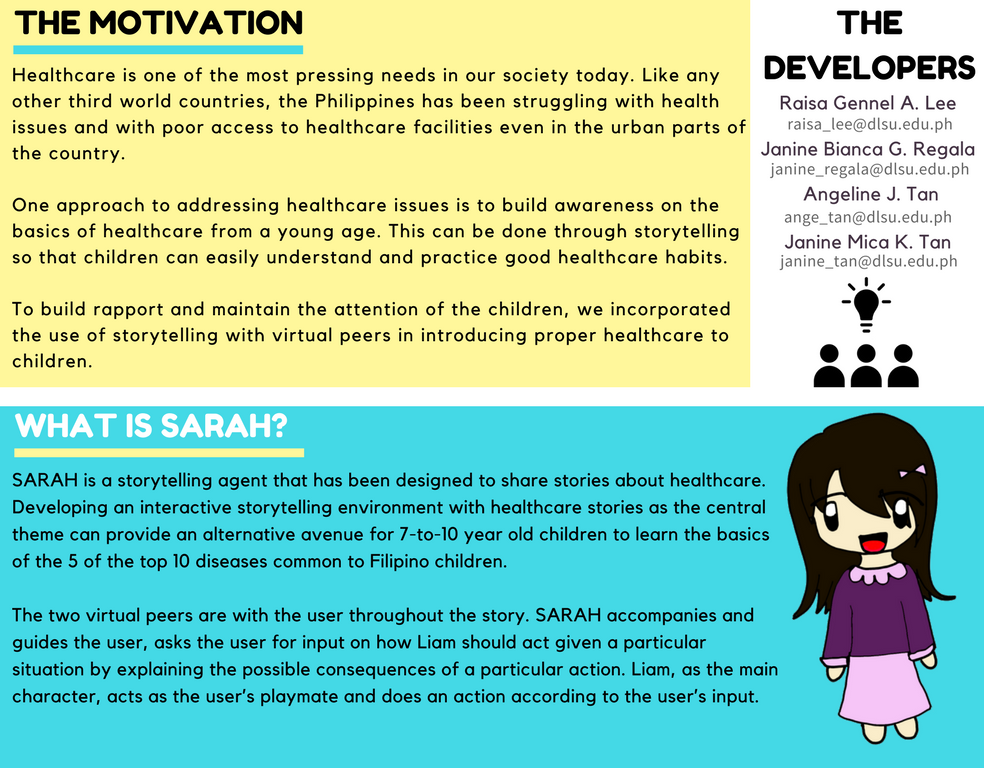
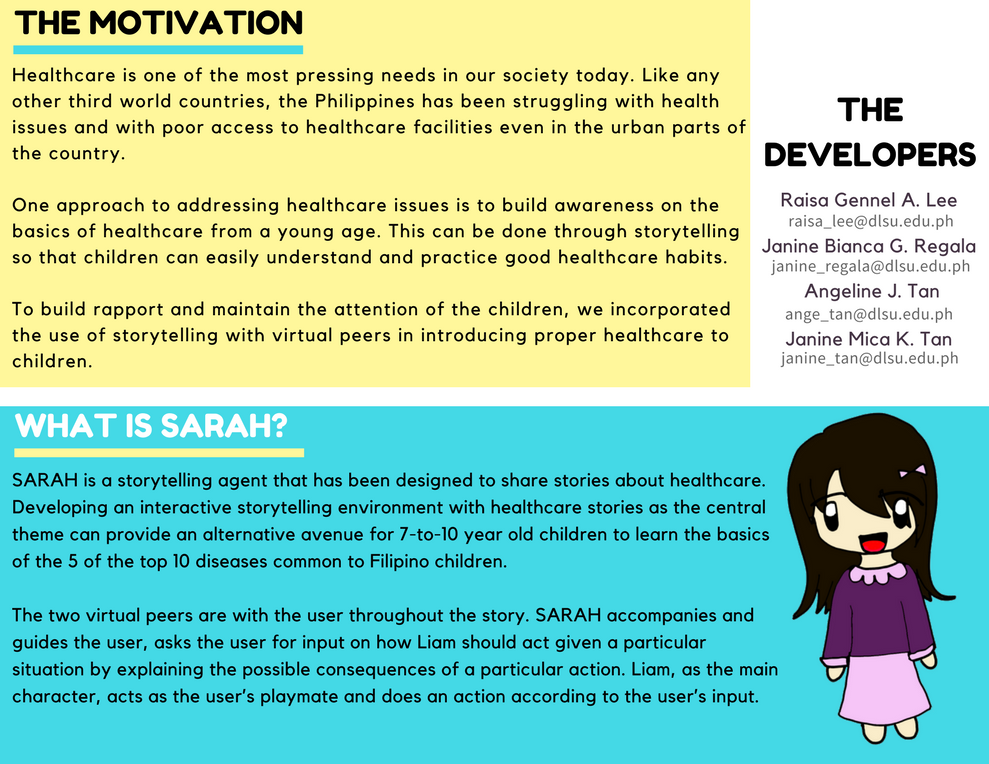
added home button to about page

Changed region(s): [[0.0, 0.0, 1.0, 0.9935], [0.0, 0.7827, 0.7927, 0.9332], [0.0305, 0.0, 0.3049, 0.0602]]

diff --git a/src/View/StartFrame.java b/src/View/StartFrame.java
@@ -68,20 +68,22 @@ public class StartFrame extends JFrame {
 		
 		lPane.removeAll();
 		
-		if (panel instanceof StoryPanel2 || panel instanceof InteractionPanel || panel instanceof ActionPanel || panel instanceof TutorialPanel || panel instanceof TutorialInteractionPanel){
+		if (panel instanceof StoryPanel2 || panel instanceof InteractionPanel || panel instanceof ActionPanel || panel instanceof TutorialPanel || panel instanceof TutorialInteractionPanel || panel instanceof AboutPanel){
 			JPanel homePanel = new JPanel();
 			homePanel.setOpaque(false);
 			homePanel.setSize(StartFrame.s);
 			homePanel.setLayout(new BorderLayout());
 			homePanel.add(new PanelHome(), BorderLayout.NORTH);
 			
+			if(!(panel instanceof AboutPanel)){
 			JPanel nextPanel = new JPanel();
 			nextPanel.setOpaque(false);
 			nextPanel.setSize(StartFrame.s);
 			nextPanel.setLayout(new BorderLayout());
 			nextPanel.add(new PanelNext(), BorderLayout.SOUTH);
-			lPane.add(homePanel, new Integer(1), 0);
 			lPane.add(nextPanel, new Integer(2), 0);
+			}
+			lPane.add(homePanel, new Integer(1), 0);
 		}
 		
 		lPane.add(panel, new Integer(0), 0);
